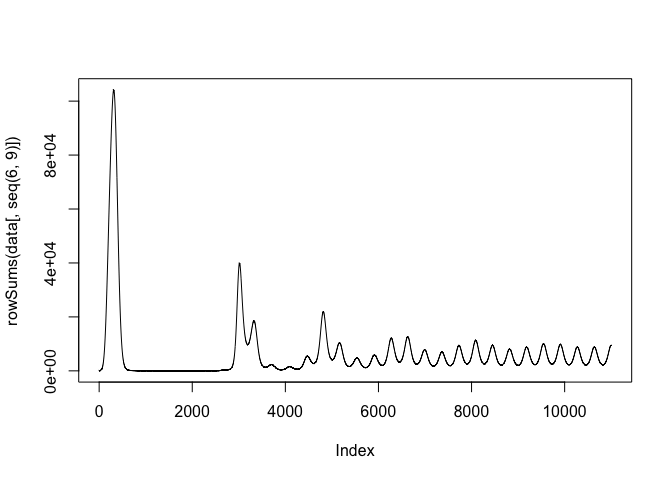
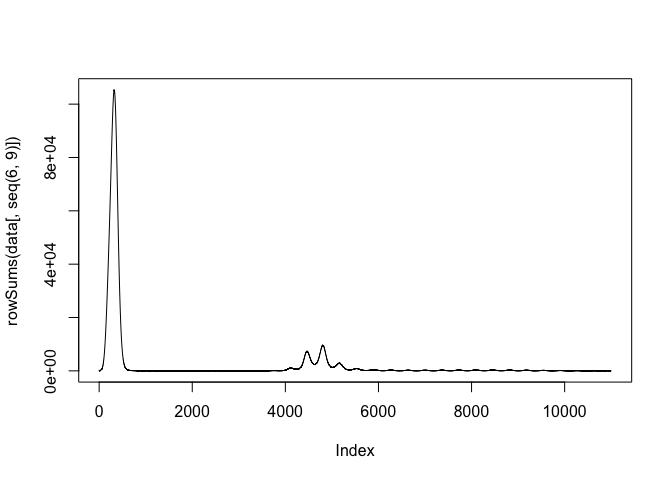
Automatic readme update

diff --git a/README.md b/README.md
@@ -56,7 +56,7 @@ UK_structure <- socialmixr::contact_matrix(
   age.limits = c(age_groups),
   symmetric = TRUE
 )
-#> Using POLYMOD social contact data. To cite this in a publication, use the 'cite' function
+#> Using POLYMOD social contact data. To cite this in a publication, use the 'get_citation()' function
 #> Removing participants that have contacts without age information. To change this behaviour, set the 'missing.contact.age' option
 
 # Symmetrical contact matrix
@@ -83,6 +83,17 @@ params <- list(
 )
 params[["contacts"]] <- uk_contact_rate_matrix
 
+params$aging <- matrix(
+  c(
+    c(-0.25, 0.25, 0, 0),
+    c(0, -0.1, 0.1, 0),
+    c(0, 0, -0.02, 0.02),
+    c(0, 0, 0, 0)
+  ),
+  nrow = 4, ncol = 4
+) / 365
+
+
 # time points
 times <- seq(11000)
 ```
@@ -90,7 +101,7 @@ times <- seq(11000)
 ### Using the Rcpp model with deSolve
 
 ``` r
-data <- as.data.frame(deSolve::lsoda(init, times, norovirus_model_cpp, params))
+data <- as.data.frame(deSolve::lsoda(init, times, norovirus_model_r, params))
 
 plot(rowSums(data[, seq(6, 9)]), type = "l")
 ```
@@ -136,12 +147,12 @@ microbenchmark::microbenchmark(
   )
 )
 #> Unit: milliseconds
-#>               expr        min        lq       mean     median         uq
-#>          noromod_r 1522.28587 1709.8222 1961.79194 1932.42598 2144.67261
-#>        noromod_cpp  420.59654  457.9769  558.93900  513.63626  618.42601
-#>  noromod_cpp_boost   65.55168   68.9488   88.38878   76.57985   94.47799
+#>               expr        min         lq      mean     median        uq
+#>          noromod_r 1251.87856 1522.67995 1757.0451 1746.22120 1920.9282
+#>        noromod_cpp  366.37315  446.62543  530.8326  511.36923  579.0844
+#>  noromod_cpp_boost   78.61849   85.67864  100.1993   95.19094  113.0682
 #>        max neval
-#>  3189.8219   100
-#>  1131.4641   100
-#>   297.4174   100
+#>  2827.1653   100
+#>   993.7156   100
+#>   173.7234   100
 ```
